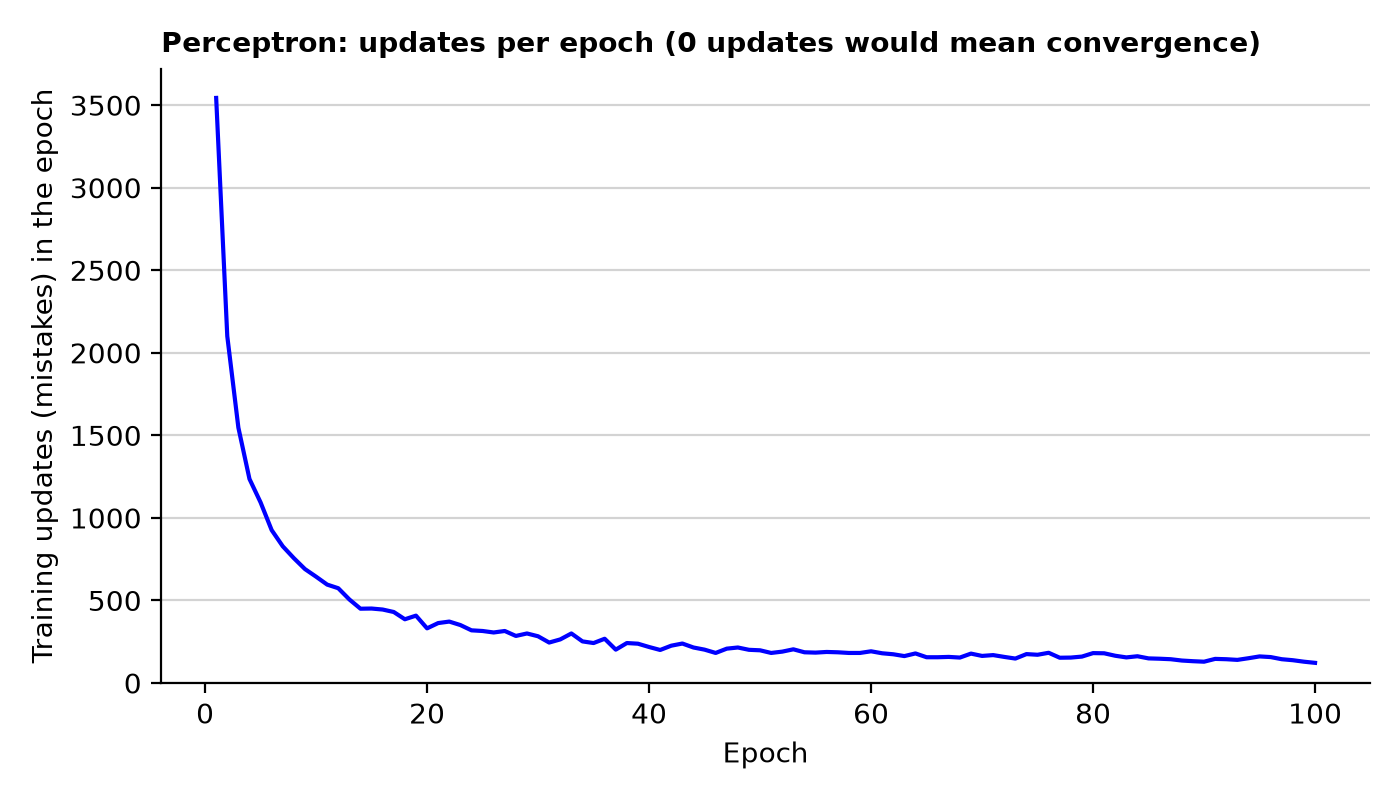
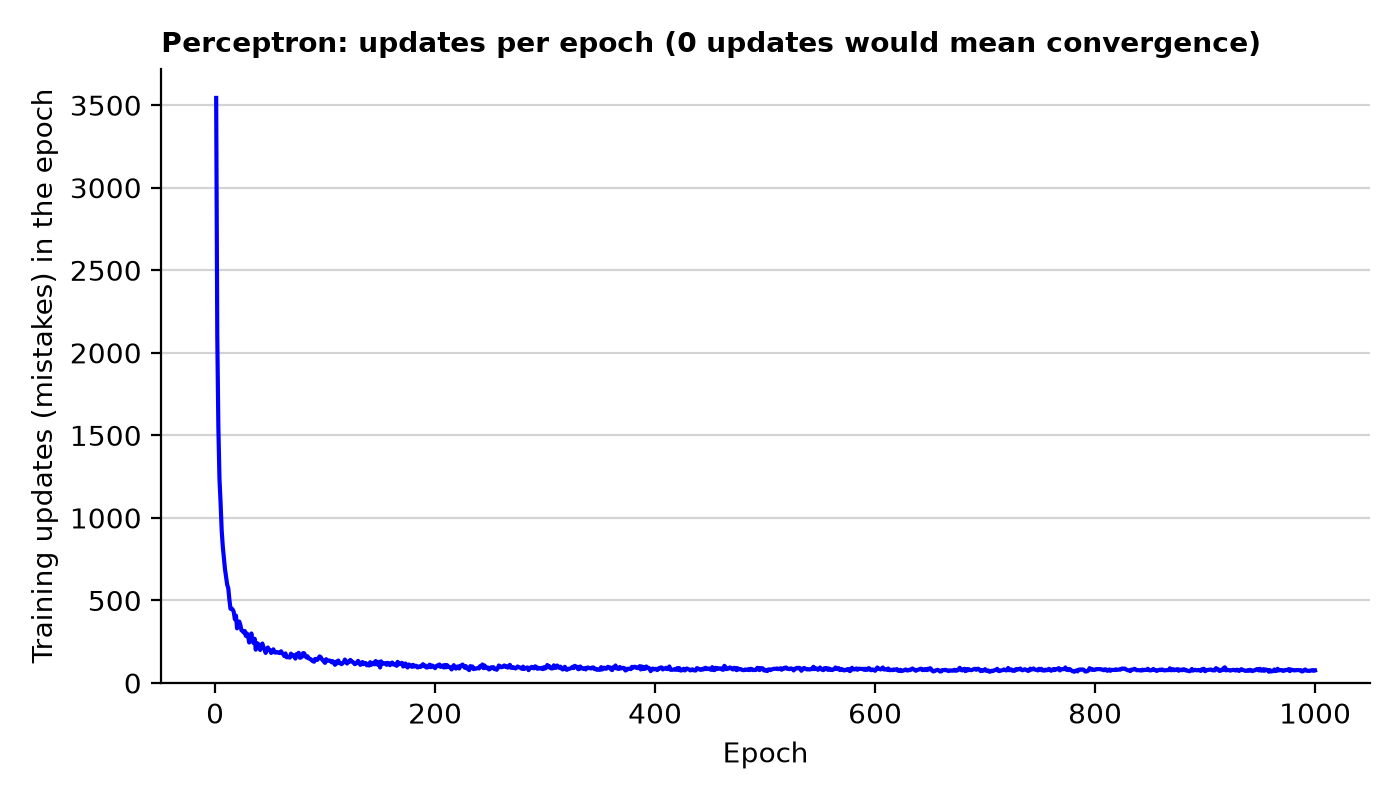
feat: added new graph, changed learning rate and max epoch, and added top 15 word in mimsclassified training tweets

diff --git a/methods/perceptron.py b/methods/perceptron.py
@@ -1,137 +1,177 @@
+from collections import Counter
+
 from preprocess import prepare_data, prepare_tfidf, print_metrics
 
-MAX_EPOCH = 100
-LEARNING_RATE = 0.5
+MAX_EPOCH = 1000
+LEARNING_RATE = 0.001
 BIAS = 0.0
 NORMALIZE = True
+TOP_WORDS = 15
 
-# Perceptron Algorithm
-# Step 1
+# Step 1: initialize the bias and all feature weights to zero.
 def initialization(bias, number_of_features):
-  # Set the weight vector to 0, w0 is our bias
   weights = [bias]
-
   for i in range(number_of_features):
     weights.append(0.0)
-
   return weights
 
-# Step 2
+# Step 2: add the bias feature (index 0) to the sparse tweet vector.
 def activation(vector):
-  # x0 is always 1. x is sparse (index -> value) because there are thousands of words out there
-  # but only a handful actually show up in a tweet. The 0s won't affect our sum or updates anyway.
   x = {0: 1.0}
-
   for index, count in vector.items():
     x[index + 1] = float(count)
-
   return x
 
-# Step 3
+# Step 3: calculate the score and predict -1 or 1.
 def classify(weights, x):
-  v = 0.0
+  score = 0.0
   for index, value in x.items():
-    v += weights[index] * value
+    score += weights[index] * value
+  if score >= 0:
+    return score, 1
+  return score, -1
 
-  if v >= 0:
-    y = 1
-  else:
-    y = -1
-
-  return v, y
-
-# Step 4
-# w(n+1) = w(n) + eta * (d(n) - y(n)) * x(n)
-def update_weight_vector(weights, x, d, y, learning_rate):
+# Step 4: update the weights only when the prediction is wrong.
+def update_weight_vector(weights, x, desired, predicted, learning_rate):
   updated = False
-
-  if y != d:
+  if predicted != desired:
     for index, value in x.items():
-      weights[index] = weights[index] + learning_rate * (d - y) * value
+      weights[index] += learning_rate * (desired - predicted) * value
     updated = True
-
   return weights, updated
 
-# Step 6
+# Step 6: zero updates in an entire epoch means the training set is classified correctly.
 def convergence_check(updates):
-  if updates == 0:
-    return True
-  return False
+  return updates == 0
 
-# Label 0 becomes -1 since our signum function only spits out -1 and 1
+# Dataset labels are 0 and 1; the Perceptron uses -1 and 1.
 def to_desired(label):
-  if label == 1:
-    return 1
-  return -1
+  return 1 if label == 1 else -1
+
+# Count the model's mistakes after an epoch has finished.
+def evaluate_training_errors(vectors, labels, weights):
+  false_positives = 0
+  false_negatives = 0
+
+  for i in range(len(vectors)):
+    _, predicted = classify(weights, activation(vectors[i]))
+    actual = to_desired(labels[i])
+
+    if predicted != actual:
+      if predicted == 1:
+        false_positives += 1
+      else:
+        false_negatives += 1
+
+  errors = false_positives + false_negatives
+  accuracy = (len(labels) - errors) / len(labels) * 100
+  return errors, false_positives, false_negatives, accuracy
+
+# An identical feature vector with both labels cannot be separated by any classifier.
+def count_conflicting_vectors(vectors, labels):
+  seen_labels = {}
+
+  for vector, label in zip(vectors, labels):
+    key = tuple(sorted(vector.items()))
+    if key not in seen_labels:
+      seen_labels[key] = set()
+    seen_labels[key].add(label)
+
+  conflicts = 0
+  for label_set in seen_labels.values():
+    if len(label_set) > 1:
+      conflicts += 1
+  return conflicts
+
+# Count words that appear in incorrectly classified training tweets.
+def most_misclassified_words(vectors, labels, weights, vocabulary, top_n=TOP_WORDS):
+  word_counts = Counter()
+  index_to_word = {index: word for word, index in vocabulary.items()}
+
+  for vector, label in zip(vectors, labels):
+    _, predicted = classify(weights, activation(vector))
+    if predicted != to_desired(label):
+      for index in vector:
+        if index in index_to_word:
+          word_counts[index_to_word[index]] += 1
+
+  return word_counts.most_common(top_n)
+
 
 def perceptron(train_vectors, train_labels, vocab_size):
-  # Step 1
   weights = initialization(BIAS, vocab_size)
   epochs = []
+  history = []
 
   for epoch in range(1, MAX_EPOCH + 1):
     updates = 0
 
     for i in range(len(train_vectors)):
-      # Step 2
       x = activation(train_vectors[i])
-      d = to_desired(train_labels[i])
-
-      # Step 3
-      v, y = classify(weights, x)
-
-      # Step 4
-      weights, updated = update_weight_vector(weights, x, d, y, LEARNING_RATE)
+      desired = to_desired(train_labels[i])
+      _, predicted = classify(weights, x)
+      weights, updated = update_weight_vector(weights, x, desired, predicted, LEARNING_RATE)
       if updated:
         updates += 1
 
-      # Step 5: next training data
-
-    print(f"Epoch {epoch}: {updates} updates")
+    errors, fp, fn, accuracy = evaluate_training_errors(train_vectors, train_labels, weights)
     epochs.append((epoch, updates))
+    history.append({"epoch": epoch, "updates": updates, "errors": errors,
+                    "false_positives": fp, "false_negatives": fn, "accuracy": accuracy})
 
-    # Step 6
+    print(f"Epoch {epoch}: {updates} updates | {errors} errors remain "
+          f"(FP: {fp}, FN: {fn}) | Training accuracy: {accuracy:.2f}%")
+
     if convergence_check(updates):
-      return True, weights, epochs
+      return True, weights, epochs, history
 
-  return False, weights, epochs
+  return False, weights, epochs, history
 
-# Predict labels for a whole list of tweets
+
 def predict_all(vectors, weights):
   predictions = []
-
   for vector in vectors:
-    v, y = classify(weights, activation(vector))
-    # classify() gives us -1 or 1, but our original labels use 0 or 1, so we map -1 back to 0
-    if y == 1:
-      predictions.append(1)
-    else:
-      predictions.append(0)
-
+    _, predicted = classify(weights, activation(vector))
+    predictions.append(1 if predicted == 1 else 0)
   return predictions
 
 
 def main():
-  # Load all the raw text, build the vocabulary, and turn them into Bag-of-Words
   train_vectors, train_labels, valid_vectors, valid_labels, test_vectors, test_labels, vocabulary = prepare_data()
+  train_vectors, valid_vectors, test_vectors = prepare_tfidf(
+    train_vectors, valid_vectors, test_vectors, len(vocabulary), NORMALIZE)
 
-  # Convert word counts into TF-IDF scores so super common words don't mess up our math
-  train_vectors, valid_vectors, test_vectors = prepare_tfidf(train_vectors, valid_vectors, test_vectors, len(vocabulary), NORMALIZE)
-
-  # Train the perceptron
   print(f"\nPERCEPTRON (learning rate = {LEARNING_RATE}, bias = {BIAS}, max epoch = {MAX_EPOCH})")
-  converged, weights, epochs = perceptron(train_vectors, train_labels, len(vocabulary))
+  converged, weights, epochs, history = perceptron(train_vectors, train_labels, len(vocabulary))
 
-  # If updates hit 0 before MAX_EPOCH, it means it found a clean boundary line between the classes
   if converged:
-    print("Data is linearly separable")
+    print("\nConverged: the model classified every training example correctly.")
   else:
-    print("Data may not be linearly separable")
+    print("\nDid not converge: the model still makes training errors at the epoch limit.")
 
-  # Finally, check how well our weights actually perform on data it hasn't learned from yet
-  return {"VALIDATION": print_metrics("VALIDATION", valid_labels, predict_all(valid_vectors, weights)),
-          "TEST": print_metrics("TEST", test_labels, predict_all(test_vectors, weights)),
-          "epochs": epochs}
+  conflicts = count_conflicting_vectors(train_vectors, train_labels)
+  print(f"Identical feature vectors with conflicting labels: {conflicts}")
+  if conflicts:
+    print("These conflicting examples prove that this training representation is not perfectly linearly separable.")
+  else:
+    print("No exact conflicting vectors were found. This does not prove that the full dataset is linearly separable.")
+
+  print(f"\nTOP {TOP_WORDS} WORDS IN MISCLASSIFIED TRAINING TWEETS")
+  top_words = most_misclassified_words(train_vectors, train_labels, weights, vocabulary)
+  if top_words:
+    for word, count in top_words:
+      print(f"{word}: {count} misclassified tweets")
+  else:
+    print("No misclassified training tweets.")
+
+  return {
+    "VALIDATION": print_metrics("VALIDATION", valid_labels, predict_all(valid_vectors, weights)),
+    "TEST": print_metrics("TEST", test_labels, predict_all(test_vectors, weights)),
+    "epochs": epochs,
+    "history": history,
+    "top_misclassified_words": top_words,
+    "conflicting_vectors": conflicts
+  }
 
 
 if __name__ == "__main__":

diff --git a/methods/evaluate.py b/methods/evaluate.py
@@ -83,9 +83,29 @@ def draw_epochs(results):
   save(fig, "perceptron_epochs.png")
 
 
+def draw_perceptron_errors(results):
+  history = results["Perceptron"]["history"]
+  epoch_numbers = [item["epoch"] for item in history]
+  errors = [item["errors"] for item in history]
+  false_positives = [item["false_positives"] for item in history]
+  false_negatives = [item["false_negatives"] for item in history]
+
+  fig, ax = plt.subplots(figsize=(7, 4))
+  ax.plot(epoch_numbers, errors, label="Total errors")
+  ax.plot(epoch_numbers, false_positives, label="False positives")
+  ax.plot(epoch_numbers, false_negatives, label="False negatives")
+  ax.set_xlabel("Epoch")
+  ax.set_ylabel("Misclassified training tweets")
+  ax.set_title("Perceptron: remaining training errors after each epoch", loc="left", fontsize=10, fontweight="bold")
+  ax.legend()
+  clean_axes(ax)
+  save(fig, "perceptron_error_breakdown.png")
+
+
 def draw_graphs(results):
   draw_k_tuning(results)
   draw_epochs(results)
+  draw_perceptron_errors(results)
 
 
 def main():
